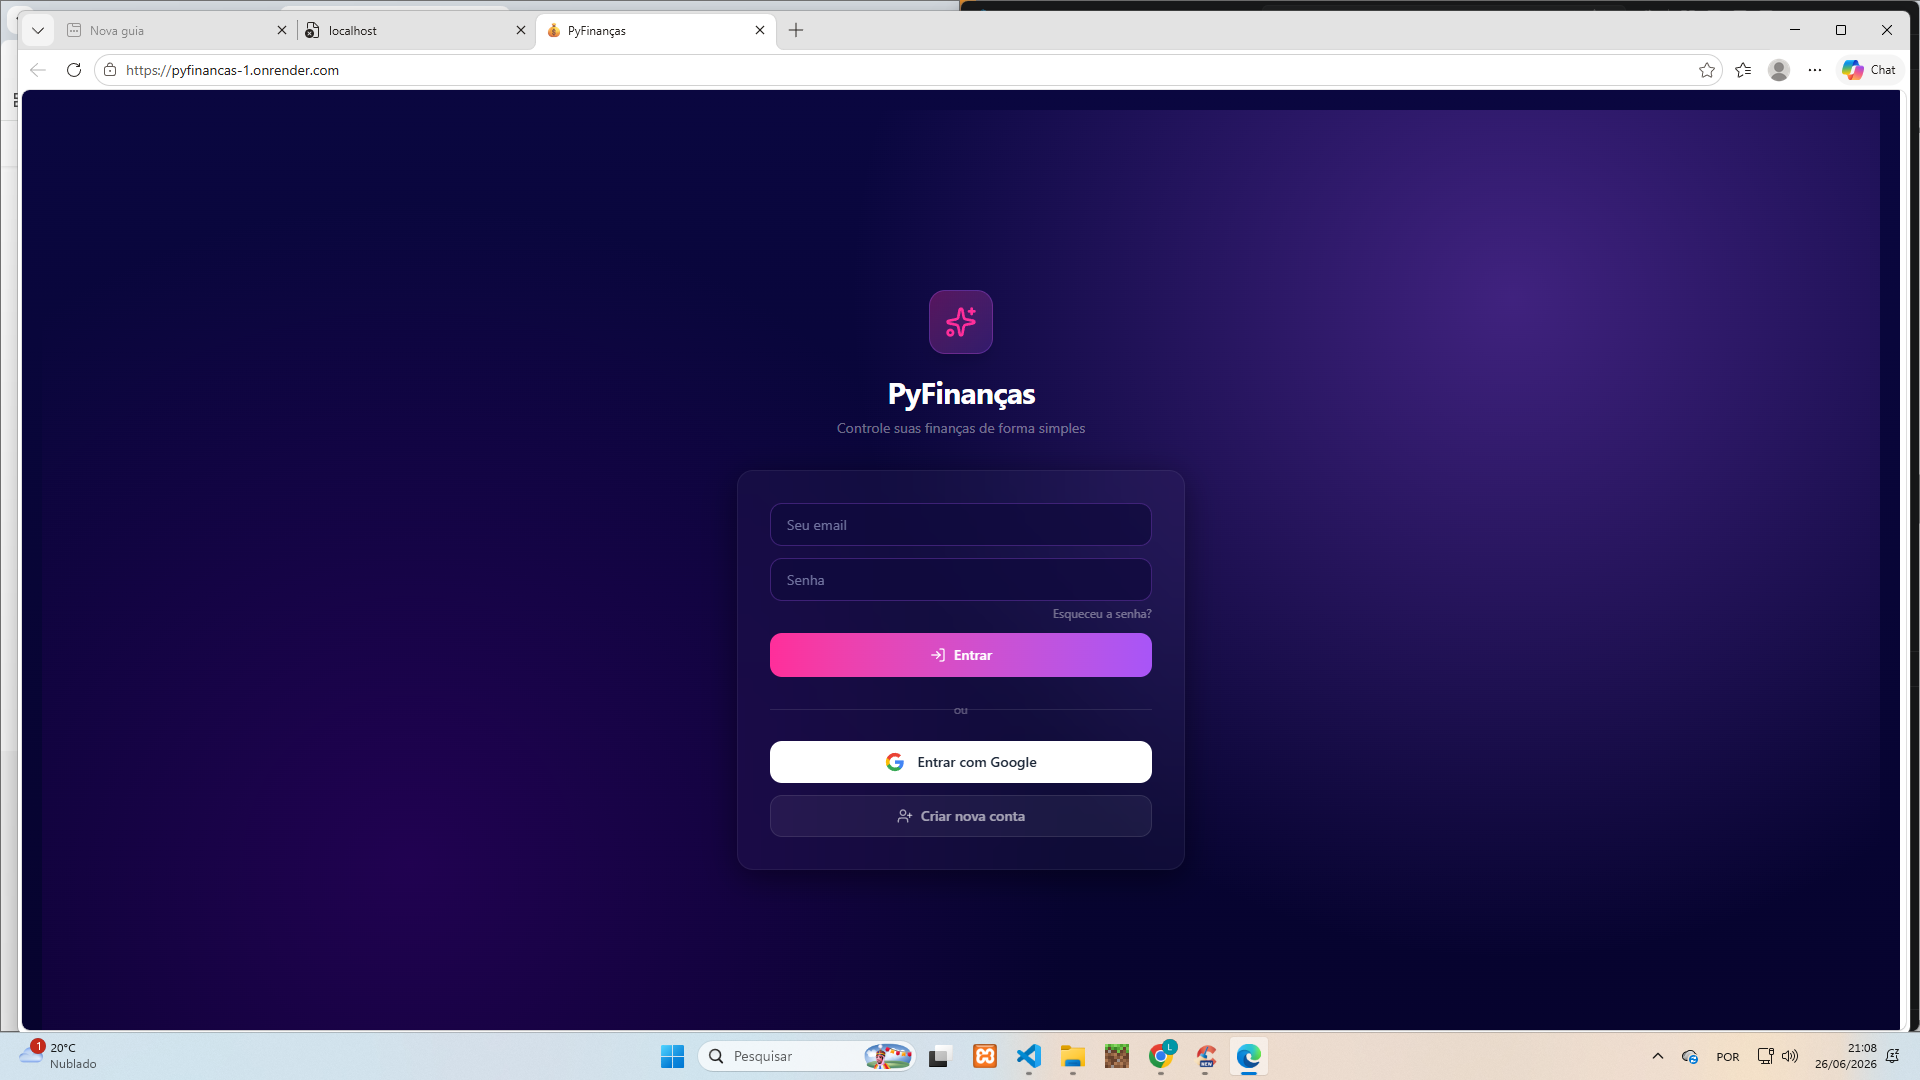
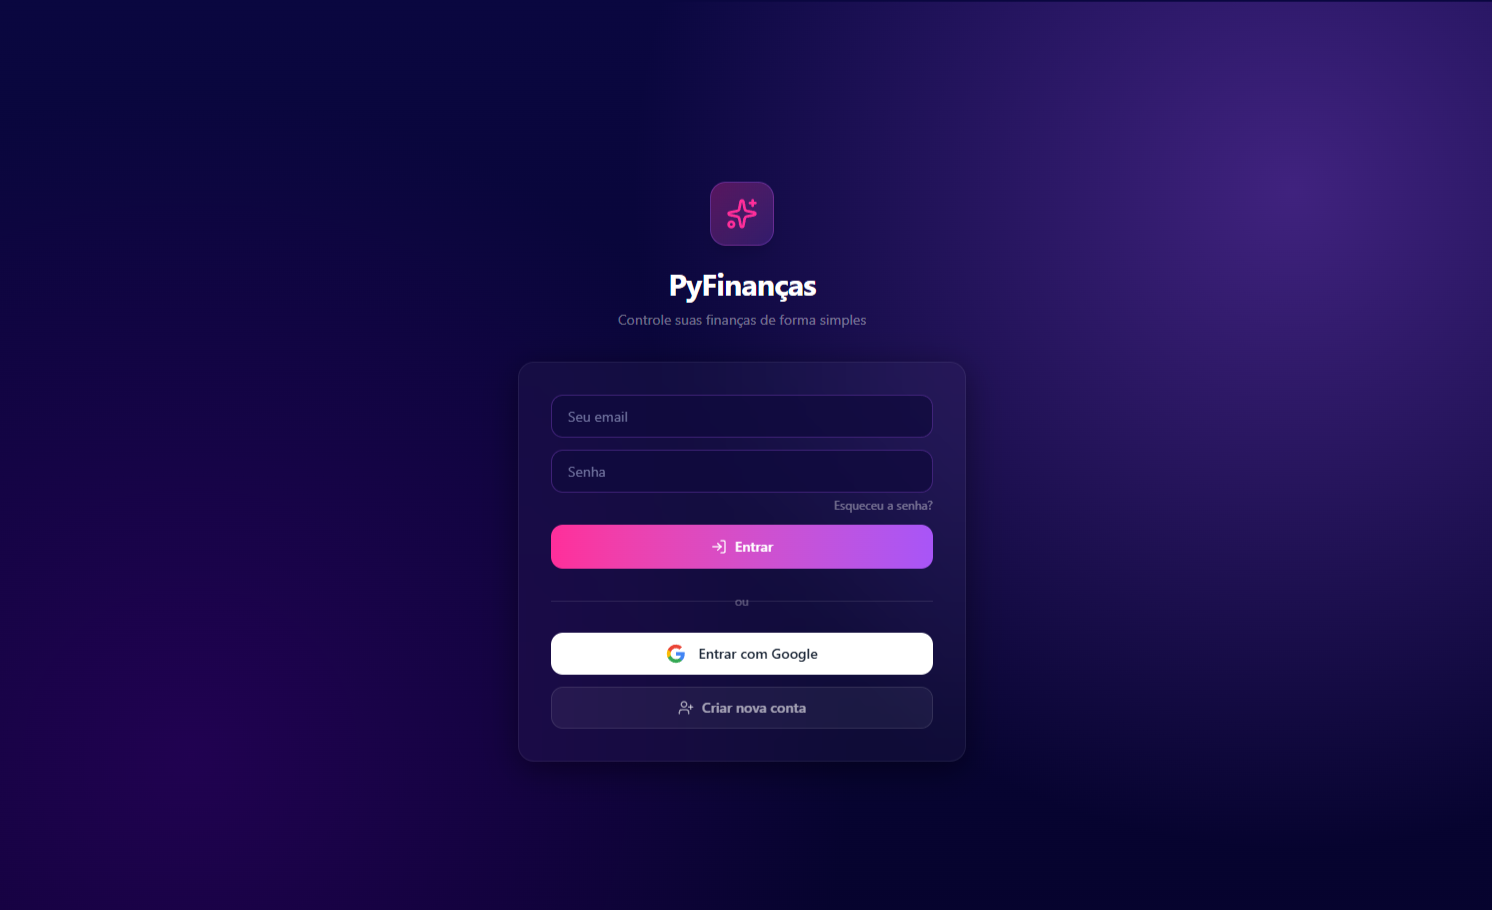
Reorganiza layout: imagens expandidas no topo ao clicar em Saiba Mais

diff --git a/style.css b/style.css
@@ -654,6 +654,10 @@ h2 i {
     overflow: hidden;
 }
 
+.expandido .projeto-frente {
+    flex-direction: column;
+}
+
 .projeto-frente::before {
     content: '';
     position: absolute;
@@ -708,16 +712,34 @@ h2 i {
 
 
 .foto-HamburgueriaZ {
-    display: flex;             /* Coloca os itens lado a lado */
-    justify-content: center;   /* Centraliza as fotos na tela */
-    gap: 15px;                 /* Espaço entre as duas fotos */
+    display: flex;
+    justify-content: center;
+    gap: 15px;
     align-items: flex-start;
     width: 100%;
     max-width: 100%;
     padding: 15px 0;
 }
 
-details[open] .foto-HamburgueriaZ .foto-expandida {
+.foto-PyFinancas {
+    display: flex;
+    justify-content: center;
+    gap: 15px;
+    align-items: flex-start;
+    width: 100%;
+    max-width: 100%;
+    padding: 15px 0;
+}
+
+.expandido .expand-top .foto-HamburgueriaZ .foto-expandida {
+    width: auto;
+    max-width: calc((100% - 15px) / 2);
+    max-height: 400px;
+    object-fit: contain;
+    margin: 0;
+}
+
+.expandido .expand-top .foto-PyFinancas .foto-expandida {
     width: auto;
     max-width: calc((100% - 15px) / 2);
     max-height: 400px;
@@ -828,7 +850,7 @@ details.projeto-verso {
     margin-top: 20px;
 }
 
-details[open] .foto {
+.expandido .foto {
     display: none;
 }
 
@@ -836,7 +858,20 @@ details[open] .foto {
     display: none;
 }
 
-details[open] .foto-expandida {
+.expand-top {
+    display: none;
+}
+
+.expandido .expand-top {
+    display: flex;
+    flex-wrap: wrap;
+    justify-content: center;
+    gap: 15px;
+    width: 100%;
+    margin-bottom: 20px;
+}
+
+.expandido .expand-top .foto-expandida {
     display: block;
     width: 100%;
     max-width: 600px;
@@ -845,8 +880,13 @@ details[open] .foto-expandida {
     object-fit: initial;
     background: transparent;
     border-radius: 16px;
-    margin: 15px auto;
     border: 2px solid rgba(168, 85, 247, 0.15);
+}
+
+.expandido .expand-top video {
+    width: 100%;
+    max-width: 600px;
+    border-radius: 16px;
 }
 
 details.projeto-verso summary {
@@ -1055,12 +1095,14 @@ footer a:hover::after {
 }
 
 @media (max-width: 600px) {
-    .foto-HamburgueriaZ {
+    .foto-HamburgueriaZ,
+    .foto-PyFinancas {
         flex-direction: column;
         align-items: center;
     }
 
-    details[open] .foto-HamburgueriaZ .foto-expandida {
+    .expandido .expand-top .foto-HamburgueriaZ .foto-expandida,
+    .expandido .expand-top .foto-PyFinancas .foto-expandida {
         max-width: 100%;
         max-height: none;
     }

diff --git a/script.js b/script.js
@@ -140,24 +140,44 @@ filtroBotoes.forEach(btn => {
     });
 });
 
-// 控制项目图片显示/隐藏
-document.querySelectorAll('.projeto-verso').forEach(details => {
-    const toggleFoto = function() {
-        const projetoInfo = details.parentElement;
-        const projetoFrente = projetoInfo.parentElement;
-        const foto = projetoFrente.querySelector('.foto');
-        if (foto) {
-            foto.style.display = details.open ? 'none' : 'block';
+// Expand Top: move midias para fora do details e controla layout
+document.querySelectorAll('.projeto-flip').forEach(projeto => {
+    const frente = projeto.querySelector('.projeto-frente');
+    const info = frente.querySelector('.projeto-info');
+    const details = info.querySelector('.projeto-verso');
+
+    const expandTop = document.createElement('div');
+    expandTop.className = 'expand-top';
+
+    ['foto-HamburgueriaZ', 'foto-PyFinancas'].forEach(cls => {
+        const wrapper = details.querySelector('.' + cls);
+        if (wrapper && details.contains(wrapper)) {
+            expandTop.appendChild(wrapper);
         }
-        
+    });
+
+    const imgs = details.querySelectorAll('.foto-expandida');
+    imgs.forEach(img => {
+        if (details.contains(img)) {
+            expandTop.appendChild(img);
+        }
+    });
+
+    const videos = details.querySelectorAll('.video-demo');
+    videos.forEach(v => expandTop.appendChild(v));
+
+    if (expandTop.children.length > 0) {
+        frente.insertBefore(expandTop, info);
+    }
+
+    const toggleExpandido = function() {
+        projeto.classList.toggle('expandido', details.open);
         const summary = details.querySelector('summary');
         if (summary) {
             summary.textContent = details.open ? 'Mostrar menos ▲' : 'Saiba mais....';
         }
     };
-    
-    details.addEventListener('toggle', toggleFoto);
-    
-    // Verifica ao carregar a página
-    toggleFoto();
+
+    details.addEventListener('toggle', toggleExpandido);
+    toggleExpandido();
 });
